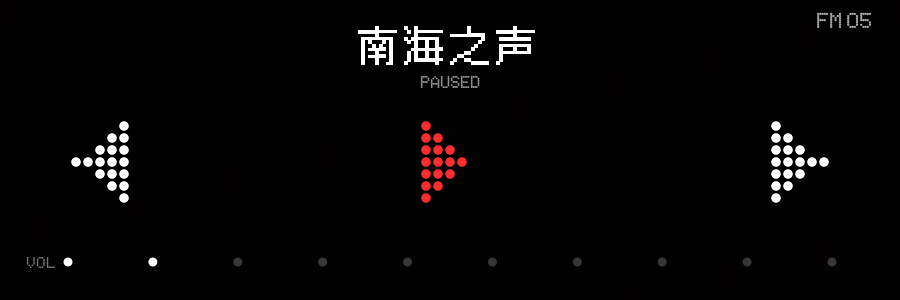
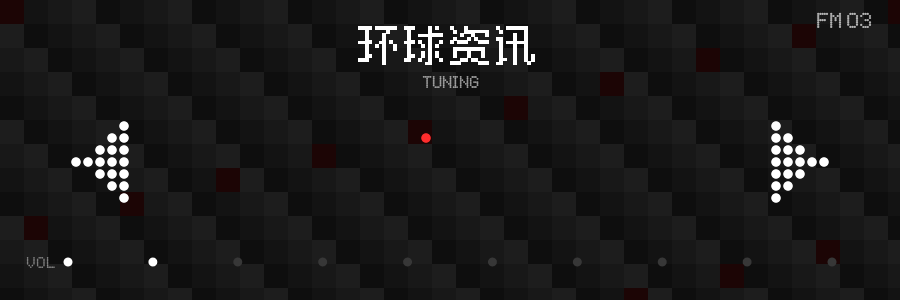
feat: add radio stations and background interaction effects

diff --git a/src/com/example/radiowidget/WidgetRenderer.java b/src/com/example/radiowidget/WidgetRenderer.java
@@ -41,7 +41,7 @@ public final class WidgetRenderer {
                 new ComponentName(context, RadioWidgetProvider.class));
         if (ids.length == 0) return;
 
-        Bitmap matrix = drawMatrix();
+        Bitmap matrix = drawMatrix(animationFrame, pressedAction);
         Bitmap content = drawContent(state, animationFrame, pressedAction);
         for (int id : ids) {
             RemoteViews views = new RemoteViews(context.getPackageName(), R.layout.widget_layout);
@@ -66,7 +66,7 @@ public final class WidgetRenderer {
         Bitmap bitmap = Bitmap.createBitmap(WIDTH, HEIGHT, Bitmap.Config.ARGB_8888);
         Canvas canvas = new Canvas(bitmap);
         canvas.drawColor(Color.BLACK);
-        canvas.drawBitmap(drawMatrix(), 0, 0, paint);
+        canvas.drawBitmap(drawMatrix(frame, pressedAction), 0, 0, paint);
         canvas.drawBitmap(drawContent(state, frame, pressedAction), 0, 0, paint);
         return bitmap;
     }
@@ -83,8 +83,11 @@ public final class WidgetRenderer {
         return bitmap;
     }
 
-    private Bitmap drawMatrix() {
-        if (matrixCache != null && !matrixCache.isRecycled()) return matrixCache;
+    private Bitmap drawMatrix(int frame, String pressedAction) {
+        boolean interactive = RadioService.ACTION_TOGGLE.equals(pressedAction)
+                || RadioService.ACTION_PREV.equals(pressedAction)
+                || RadioService.ACTION_NEXT.equals(pressedAction);
+        if (!interactive && matrixCache != null && !matrixCache.isRecycled()) return matrixCache;
         Bitmap bitmap = Bitmap.createBitmap(WIDTH, HEIGHT, Bitmap.Config.ARGB_8888);
         Canvas canvas = new Canvas(bitmap);
         final float cell = 24f;
@@ -95,9 +98,22 @@ public final class WidgetRenderer {
                 resetPaint();
                 boolean accent = ((row * 7 + column * 11) % 37) == 0;
                 int alpha = 14 + ((row * 3 + column * 5) % 4) * 5;
-                paint.setColor(accent
+                int color = accent
                         ? Color.argb(28, 255, 45, 45)
-                        : Color.argb(alpha, 255, 255, 255));
+                        : Color.argb(alpha, 255, 255, 255);
+                if (interactive) {
+                    int centerColumn = columnCount / 2;
+                    int centerRow = rowCount / 2;
+                    int distance = Math.abs(column - centerColumn) + Math.abs(row - centerRow);
+                    int wave = 2 + frame * 3;
+                    int band = Math.abs(distance - wave);
+                    if (band == 0 && ((row * 5 + column * 3) % 5 == 0)) {
+                        color = Color.argb(78, 255, 45, 45);
+                    } else if (band <= 1 && ((row * 2 + column * 7) % 5 == 1)) {
+                        color = Color.argb(46, 255, 255, 255);
+                    }
+                }
+                paint.setColor(color);
                 paint.setAntiAlias(false);
                 float left = column * cell;
                 float top = row * cell;
@@ -105,8 +121,8 @@ public final class WidgetRenderer {
                         Math.min(WIDTH, left + cell), Math.min(HEIGHT, top + cell), paint);
             }
         }
-        matrixCache = bitmap;
-        return matrixCache;
+        if (!interactive) matrixCache = bitmap;
+        return bitmap;
     }
 
     private void drawStation(Canvas canvas, Station station, WidgetStateStore.Snapshot state) {

diff --git a/src/com/example/radiowidget/Station.java b/src/com/example/radiowidget/Station.java
@@ -32,5 +32,13 @@ public class Station {
             new Station("浙江交通之声", "https://satellitepull.cnr.cn/live/wxzjjtgb/playlist.m3u8"),
             new Station("江苏新闻广播", "https://satellitepull.cnr.cn/live/wx32jsxwgb/playlist.m3u8"),
             new Station("江苏经典音乐", "https://satellitepull.cnr.cn/live/wx32jsjdlxyy/playlist.m3u8"),
+            new Station("北京新闻广播", "https://satellitepull.cnr.cn/live/wxbjxwgb/playlist.m3u8"),
+            new Station("广东音乐之声", "https://satellitepull.cnr.cn/live/wxgdyyzs/playlist.m3u8"),
+            new Station("深圳飞扬971", "https://satellitepull.cnr.cn/live/wxszfy971/playlist.m3u8"),
+            new Station("广西音乐广播", "https://satellitepull.cnr.cn/live/wx32gxwygb/playlist.m3u8"),
+            new Station("重庆音乐广播", "https://satellitepull.cnr.cn/live/wxcqyygb/playlist.m3u8"),
+            new Station("陕西新闻广播", "https://satellitepull.cnr.cn/live/wxsxxxwgb/playlist.m3u8"),
+            new Station("福建新闻广播", "https://satellitepull.cnr.cn/live/wx32fjxwgb/playlist.m3u8"),
+            new Station("河北综合广播", "https://satellitepull.cnr.cn/live/wxhebzhgb/playlist.m3u8"),
     };
 }

diff --git a/src/com/example/radiowidget/RadioService.java b/src/com/example/radiowidget/RadioService.java
@@ -257,10 +257,12 @@ public class RadioService extends Service {
         abandonAudioFocus();
         setState(state.stationIndex, state.volume,
                 WidgetStateStore.PlaybackState.PAUSED, message);
-        renderer.updateAll(state, 0, ACTION_TOGGLE);
+        animate(ACTION_TOGGLE, 4, 85);
         updateMediaSession();
-        stopForeground(true);
-        stopSelf();
+        handler.postDelayed(() -> {
+            stopForeground(true);
+            stopSelf();
+        }, 4 * 85L + 40L);
     }
 
     private void finishNonPlaybackAction() {

diff --git a/README.md b/README.md
@@ -26,13 +26,13 @@
 
 ## 📦 直接安装
 
-仓库根目录的 `radiowidget.apk` 是当前稳定版（v2.2.1），可以直接下载安装；也可以从源码构建，产物位于 `build/radiowidget.apk`：
+仓库根目录的 `radiowidget.apk` 是当前稳定版（v2.3.0），可以直接下载安装；也可以从源码构建，产物位于 `build/radiowidget.apk`：
 
 ```bash
 adb install -r radiowidget.apk
 ```
 
-安装后：长按桌面空白 → 小组件 → 找到 **「点阵电台」** → 拖到桌面。组件固定为 3×1。v2 包名为 `com.unimend.nothingradio`，可与历史 v1 并存。v2.2.1 使用独立的圆角底板、无缝方格背景和等比内容三层结构，不依赖 Launcher 上报的尺寸比例；调频与播放动画只作用于中央按钮。
+安装后：长按桌面空白 → 小组件 → 找到 **「点阵电台」** → 拖到桌面。组件固定为 3×1。v2 包名为 `com.unimend.nothingradio`，可与历史 v1 并存。v2.3.0 在播放、暂停和切台时增加短暂的背景亮格波纹；左右按钮保持固定，方格层与黑色底板使用相同圆角裁切。
 
 ## 🔨 从源码构建
 
@@ -76,7 +76,7 @@ adb install -r radiowidget.apk
 - **HLS 播放**：CNR 流是 `.m3u8`（HLS），`MediaPlayer` 从 Android 4.0 起原生支持。
 - **绕过 CDN 403**：CNR 的 CDN 会拦截非常规 User-Agent，故用 `setDataSource(context, uri, headers)` 传自定义 `User-Agent`/`Referer` 头。
 - **后台播放**：只在播放或调频时运行前台服务；暂停后释放播放器和服务，降低空闲功耗。
-- **网络安全**：10 个电台全部使用 HTTPS，应用完全禁止明文流量；卫星源会继续跳转到 HTTPS CDN。
+- **网络安全**：18 个电台全部使用 HTTPS，应用完全禁止明文流量；卫星源会继续跳转到 HTTPS CDN。
 - **点阵绘制**：整块位图用 `Canvas` 绘制（因为 `RemoteViews` 无法直接设置自定义字体，只能画进位图），三个透明 `ImageView` 覆盖在按钮区做点击。
 
 ## 📄 字体来源
@@ -86,11 +86,11 @@ adb install -r radiowidget.apk
 
 ## 📡 电台源
 
-内置 10 个中文电台（央广 CNR + 中国国际广播电台 CRI + 省级电台），全部为实测可用流：
+内置 18 个中文电台（央广 CNR + 中国国际广播电台 CRI + 省级电台），全部为实测可用流：
 
 - **央广 CNR**（`ngcdn001/002.cnr.cn`）：中国之声、经济之声
 - **中国国际广播电台 CRI**（`sk.cri.cn`）：环球资讯、中文环球、南海之声、海峡飞虹
-- **省级电台**（`satellitepull.cnr.cn`）：浙江之声、浙江交通之声、江苏新闻广播、江苏经典音乐
+- **省级电台**（`satellitepull.cnr.cn`）：浙江之声、浙江交通、江苏新闻、江苏经典音乐、北京新闻、广东音乐、深圳飞扬971、广西音乐、重庆音乐、陕西新闻、福建新闻、河北综合
 
 > ⚠ 注意：CNR 的 `ngcdn003+` 节点（音乐之声、文艺之声等）已关闭，请求会 403，勿使用。增删电台改 `Station.java` 的 `LIST` 数组即可。
 
@@ -100,4 +100,4 @@ MIT License，详见 [LICENSE](./LICENSE)。
 
 ---
 
-*一个在 OnePlus 7T Pro（Android 12，Magisk root）上从零定制、手写编译的 Nothing 风格电台组件。v2.2.1 已完成构建、安装、桌面交互、联网播放、HTTPS 电台源、状态持久化、无缝方格及 3×5/5×6 桌面网格适配验证。*
+*一个在 OnePlus 7T Pro（Android 12，Magisk root）上从零定制、手写编译的 Nothing 风格电台组件。v2.3.0 已完成构建、安装、桌面交互、18 台联网播放、HTTPS 链路、状态持久化、背景动画及 3×5/5×6 桌面网格适配验证。*

diff --git a/PROJECT_NOTES.md b/PROJECT_NOTES.md
@@ -6,6 +6,17 @@
 
 ## 2026-10-10 - v2.1 HTTPS 流修复与半透明点阵背景
 
+### v2.3.0 背景反馈、圆角统一与扩充台单
+
+- 播放、暂停、上一台和下一台操作增加从中央向外扩散的有限帧亮格波纹；红色格子保持稀疏，辅以低透明度白色亮格。
+- 左右箭头继续使用固定坐标，背景动画不会改变任何按钮的位置。
+- 暂停路径原来只提交一帧；现保留前台服务约 380 ms 完成 4 帧反馈，再安全停止。
+- `background_matrix` 与底板共用 `widget_card_background`，并启用 `clipToOutline`，方格纹理与黑色底板使用同一个 `14dp` 圆角轮廓。
+- 台单由 10 台增加到 18 台。新增北京新闻、广东音乐、深圳飞扬971、广西音乐、重庆音乐、陕西新闻、福建新闻、河北综合。
+- 所有候选先检查 HTTPS 主清单及 HTTPS `100ycdn.com` 二级清单；随后在 OnePlus 7T Pro 上每台等待约 6 秒，8 台均出现 `开始播放` 日志。
+- 四川文艺候选在主清单验证阶段超时，未加入正式台单。
+- 版本升级为 `2.3.0`、`versionCode=8`。
+
 ### v2.2.1 无缝方格与中央动画隔离
 
 - 背景由稀疏小方块改为 `24×24 px` 无间隔方格，使用四档低透明度明暗变化形成连续纹理，少量格子保留低透明度红色强调。
